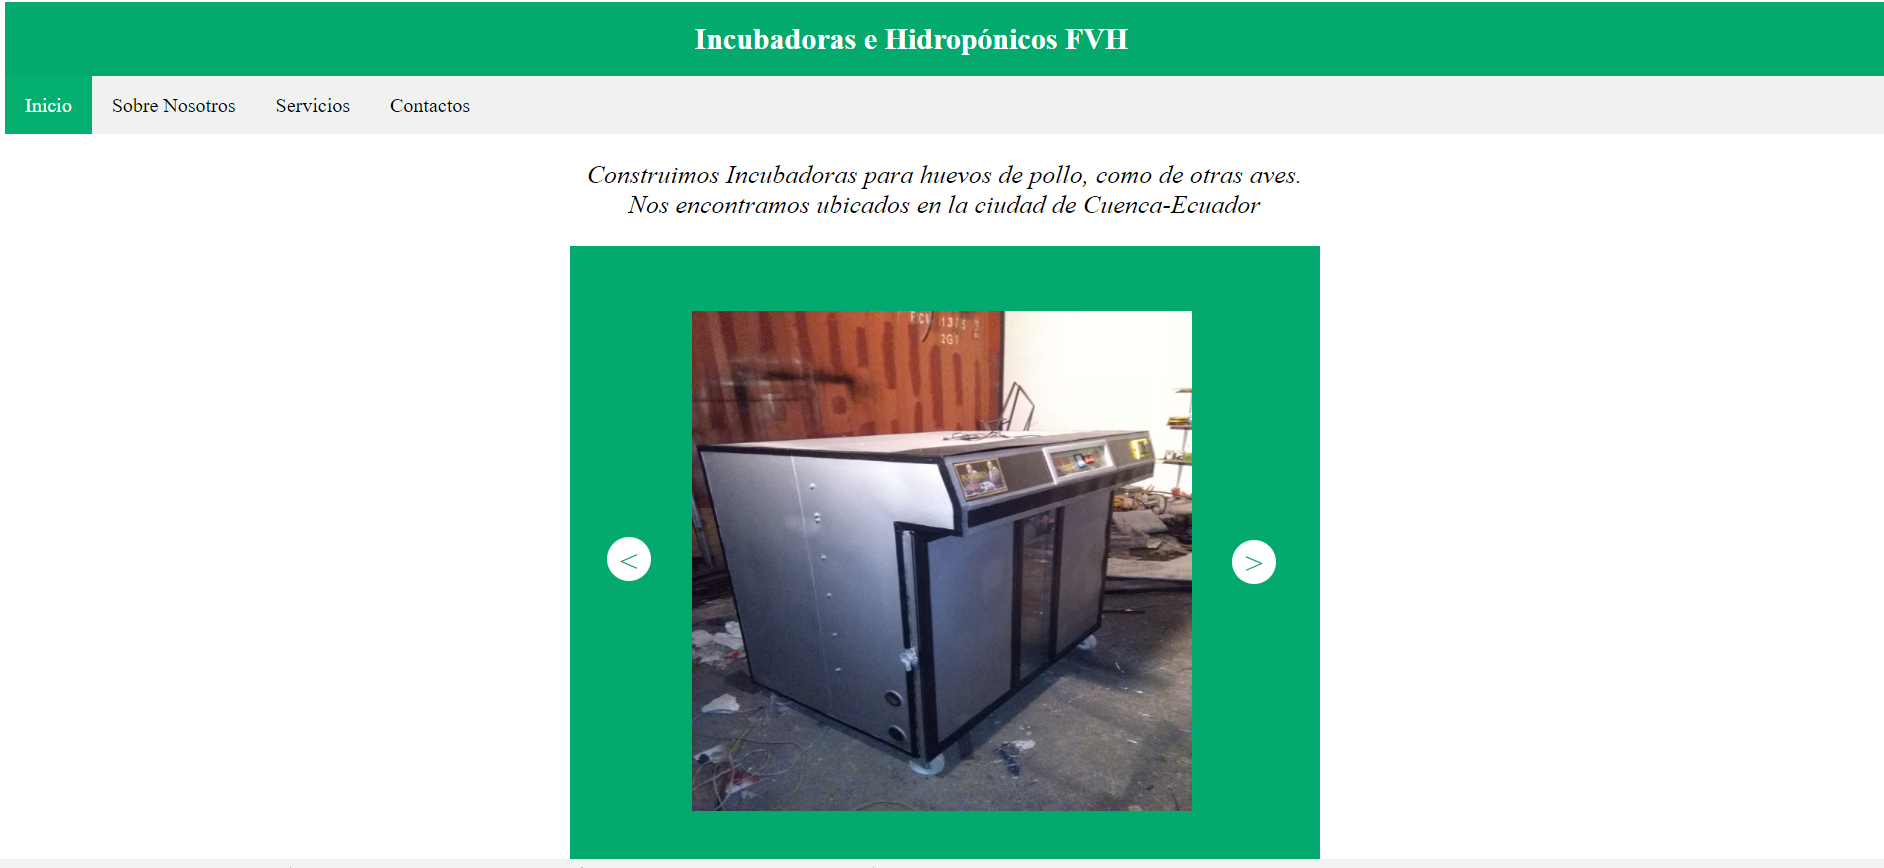
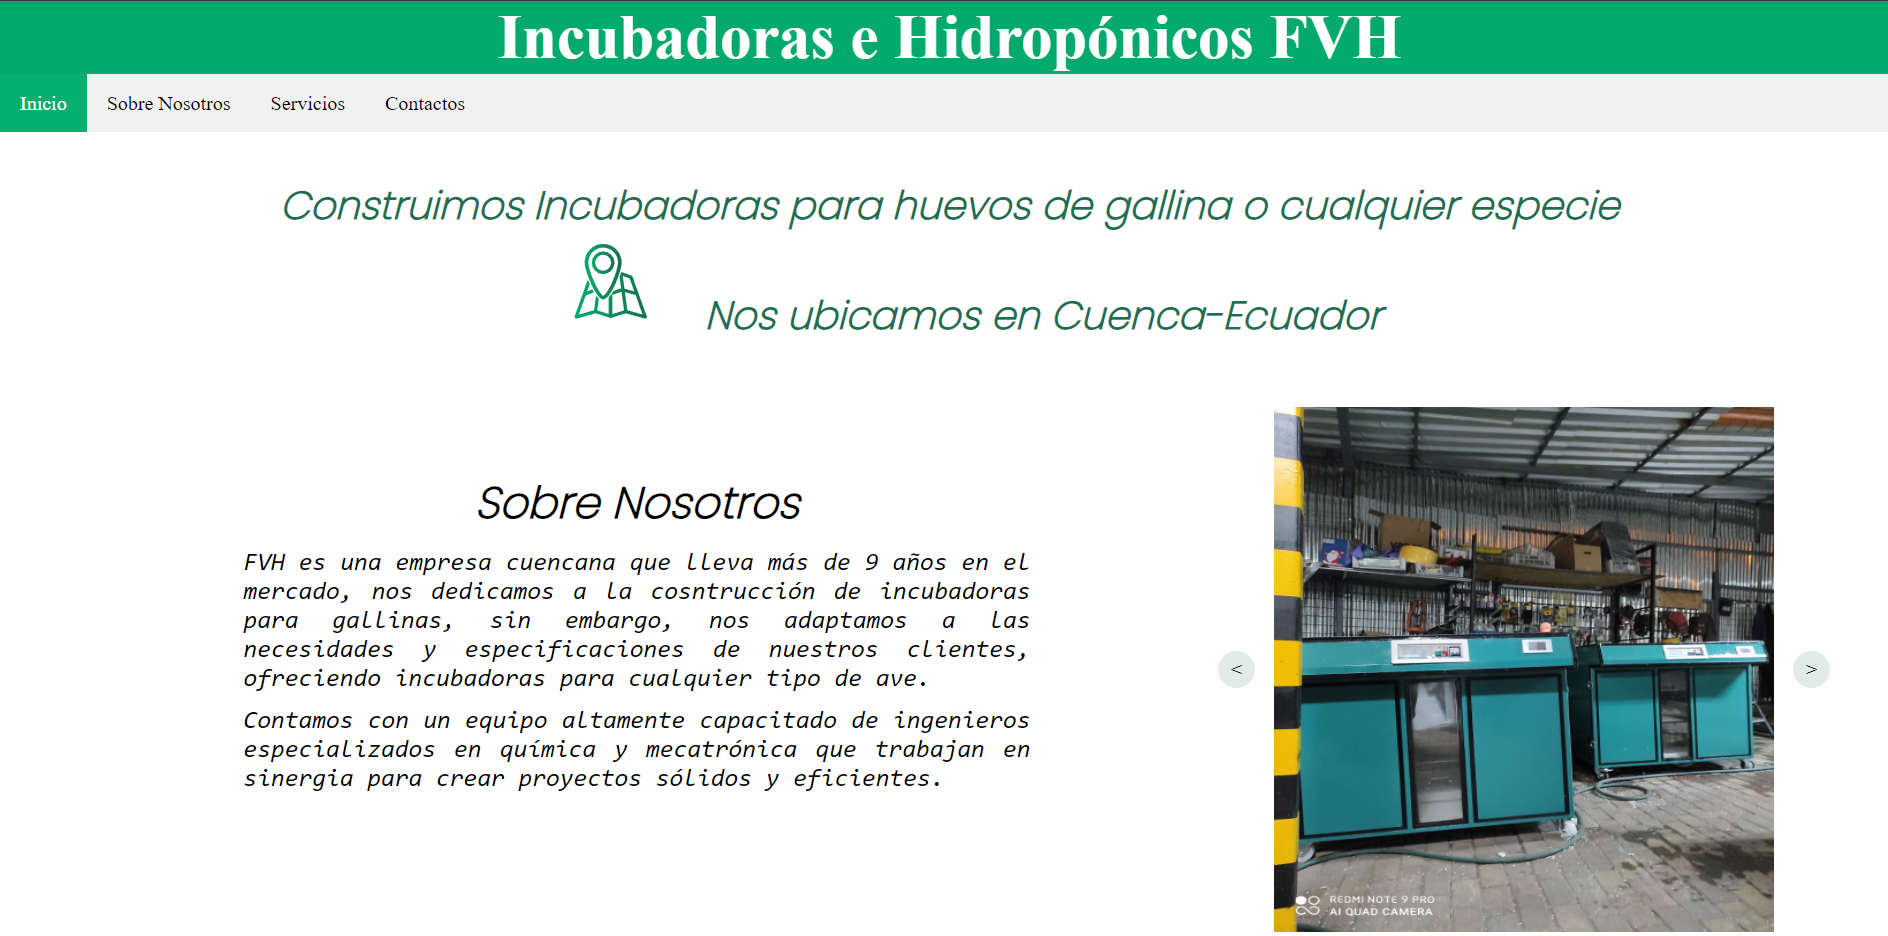
Mensaje del commit

diff --git a/index.html b/index.html
@@ -26,7 +26,7 @@
     </div>
     <div class="auxdiv"></div>
     <div class="image_perfil">
-        <img class="img_perfil" src="/imagenes/foto.jpg" alt="image_perfil" >
+        <img class="img_perfil" src="imagenes/foto.jpg" alt="image_perfil" >
         <h1>Hola, Soy Mateo Salazar</h1>
     </div>
 
@@ -85,13 +85,35 @@
                 </h2>
             </div>
             <div class="galeryportafolio">
-                <div class="proyect1">
-                    <img src="/imagenes/fvh_page.PNG" alt="logo_fvhpage">
-                    <p>Web Information</p>
+                <div class="proyects" >
+                    <a href="https://incubadoras-fvh.netlify.app/#titleservice" target="_blank">
+                        <img src="imagenes/fvh_page.PNG" alt="logo_fvhpage" >
+                    </a>
+                    <p>Landing Page</p>
                 </div>
-                <div class="proyect2">
-                    <img src="/imagenes/maketado.PNG" alt="maketado">
-                    <p>Maketado</p>
+                <div class="proyects">
+                    <a href="https://cosmic-snickerdoodle-1d16f4.netlify.app/"target="_blank"><img src="imagenes/AppDomotic.png" alt="domotic4.0"></a>
+                    <p>DomoticApp</p>
+                </div>
+                <div class="proyects">
+                    <a href="https://golden-cupcake-ec4f3d.netlify.app/"target="_blank"><img src="imagenes/Ricak_and_Morty.png" alt="Ricak_and_Morty"></a>
+                    <p>Rick and Morty App</p>
+                </div>
+                <div class="proyects">
+                    <a href="https://coctelapy.netlify.app"target="_blank"><img src="imagenes/cotelApp.png" alt="CotelApp"></a>
+                    <p>CotelApp</p>
+                </div>
+                <div class="proyects">
+                    <a href="https://wheateryuc.netlify.app"target="_blank"><img src="imagenes/weatherapp.png" alt="WeatherApp"></a>
+                    <p>Weather App</p>
+                </div>
+                <div class="proyects">
+                    <a href="https://crud-prodcuts-academlo.netlify.app/"target="_blank"><img src="imagenes/AppCrudProducts.png" alt="CrudApp"></a>
+                    <p>CrudAppProducts</p>
+                </div>
+                <div class="proyects">
+                    <a href="https://luxury-begonia-9ae418.netlify.app"target="_blank"><img src="imagenes/Ecomerce.png" alt="Ecomerce"></a>
+                    <p>Ecomerce</p>
                 </div>
             </div>
         </div>              
@@ -100,11 +122,11 @@
          </div>      
          <div class="estudios">
              <div class="ing">
-                <img src="/imagenes/logoupscolor.svg" alt="logo_ups">
+                <img src="imagenes/logoupscolor.svg" alt="logo_ups">
                 <p>Ingenieria Mecátronica</p>
              </div>
              <div class="academlo">
-                <img src="/imagenes/logo_academlo.png" alt="logo_academlo">
+                <img src="imagenes/logo_academlo.png" alt="logo_academlo" >
                 <p>Desarrollador Web Full Stack </p>
              </div>
          </div>      

diff --git a/styles.css b/styles.css
@@ -254,9 +254,14 @@ p{
 .galeryportafolio{
     display: flex;
     flex-direction: row;
-    gap: 30px;
+    flex-wrap: wrap;
     text-align: center;
+    align-items: center;
+    justify-content: center;
+    padding: 5px;
+    gap: 30px;
 }
+
 .galeryportafolio img{
     width: 400px;
     height: 300px;
